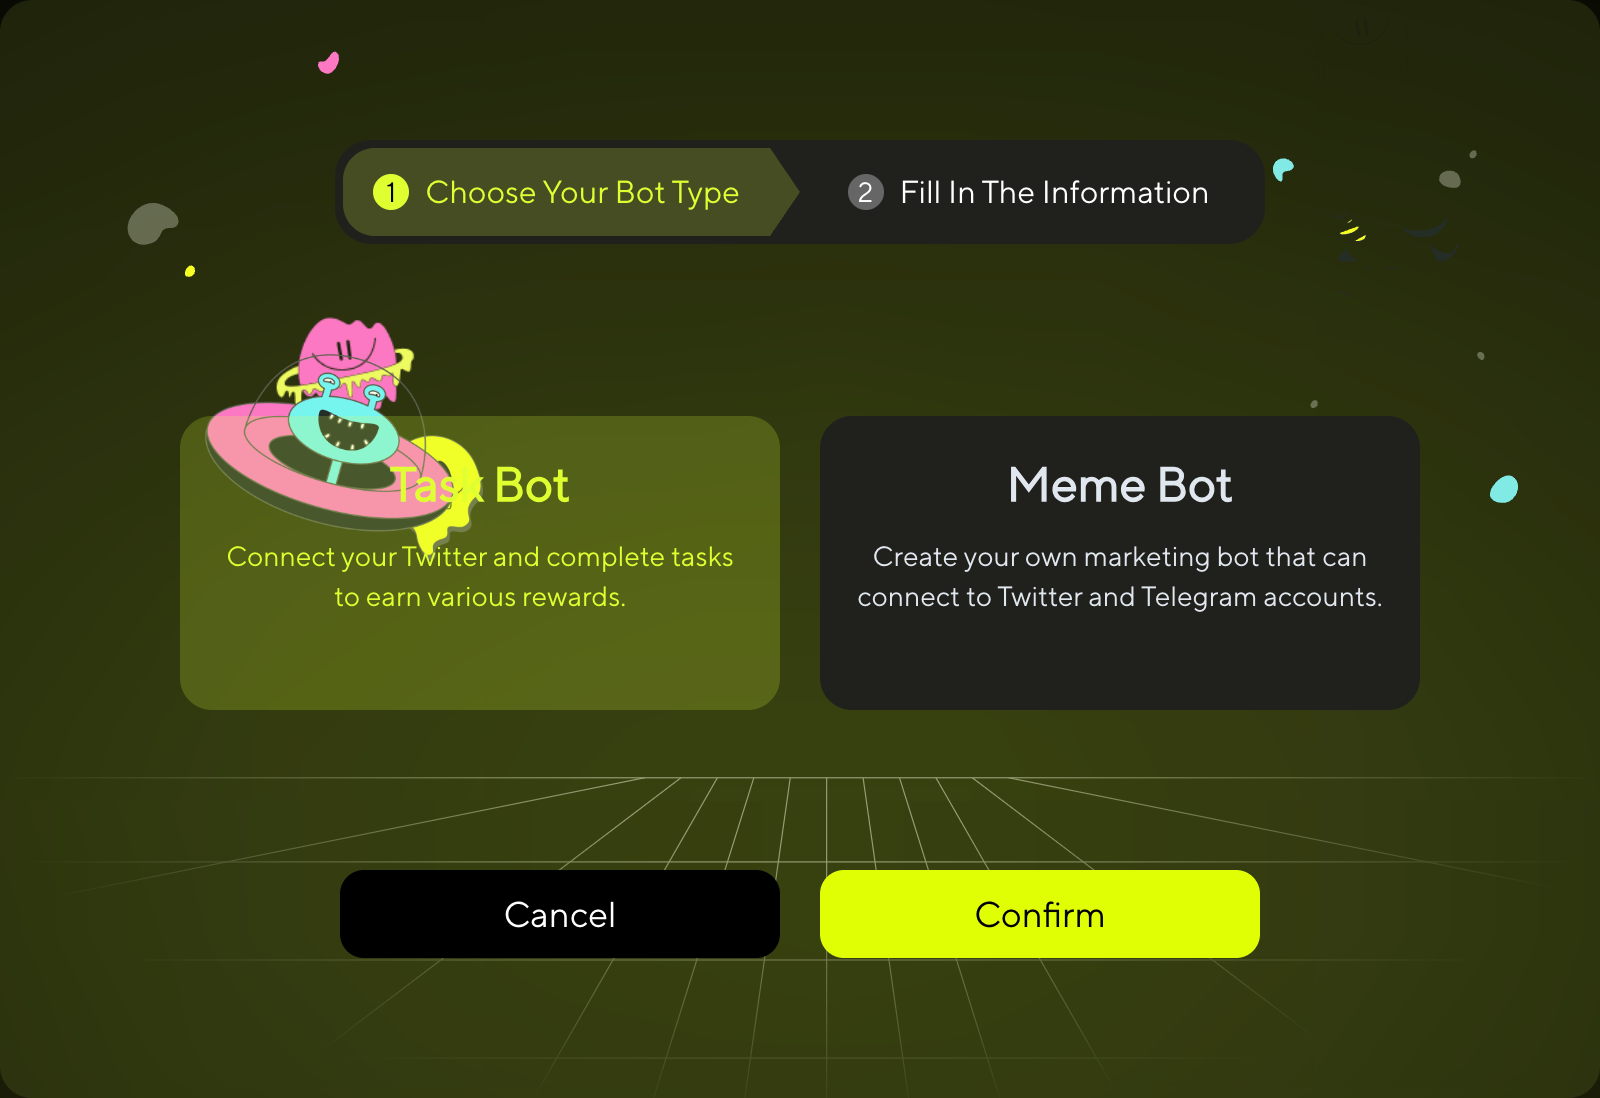
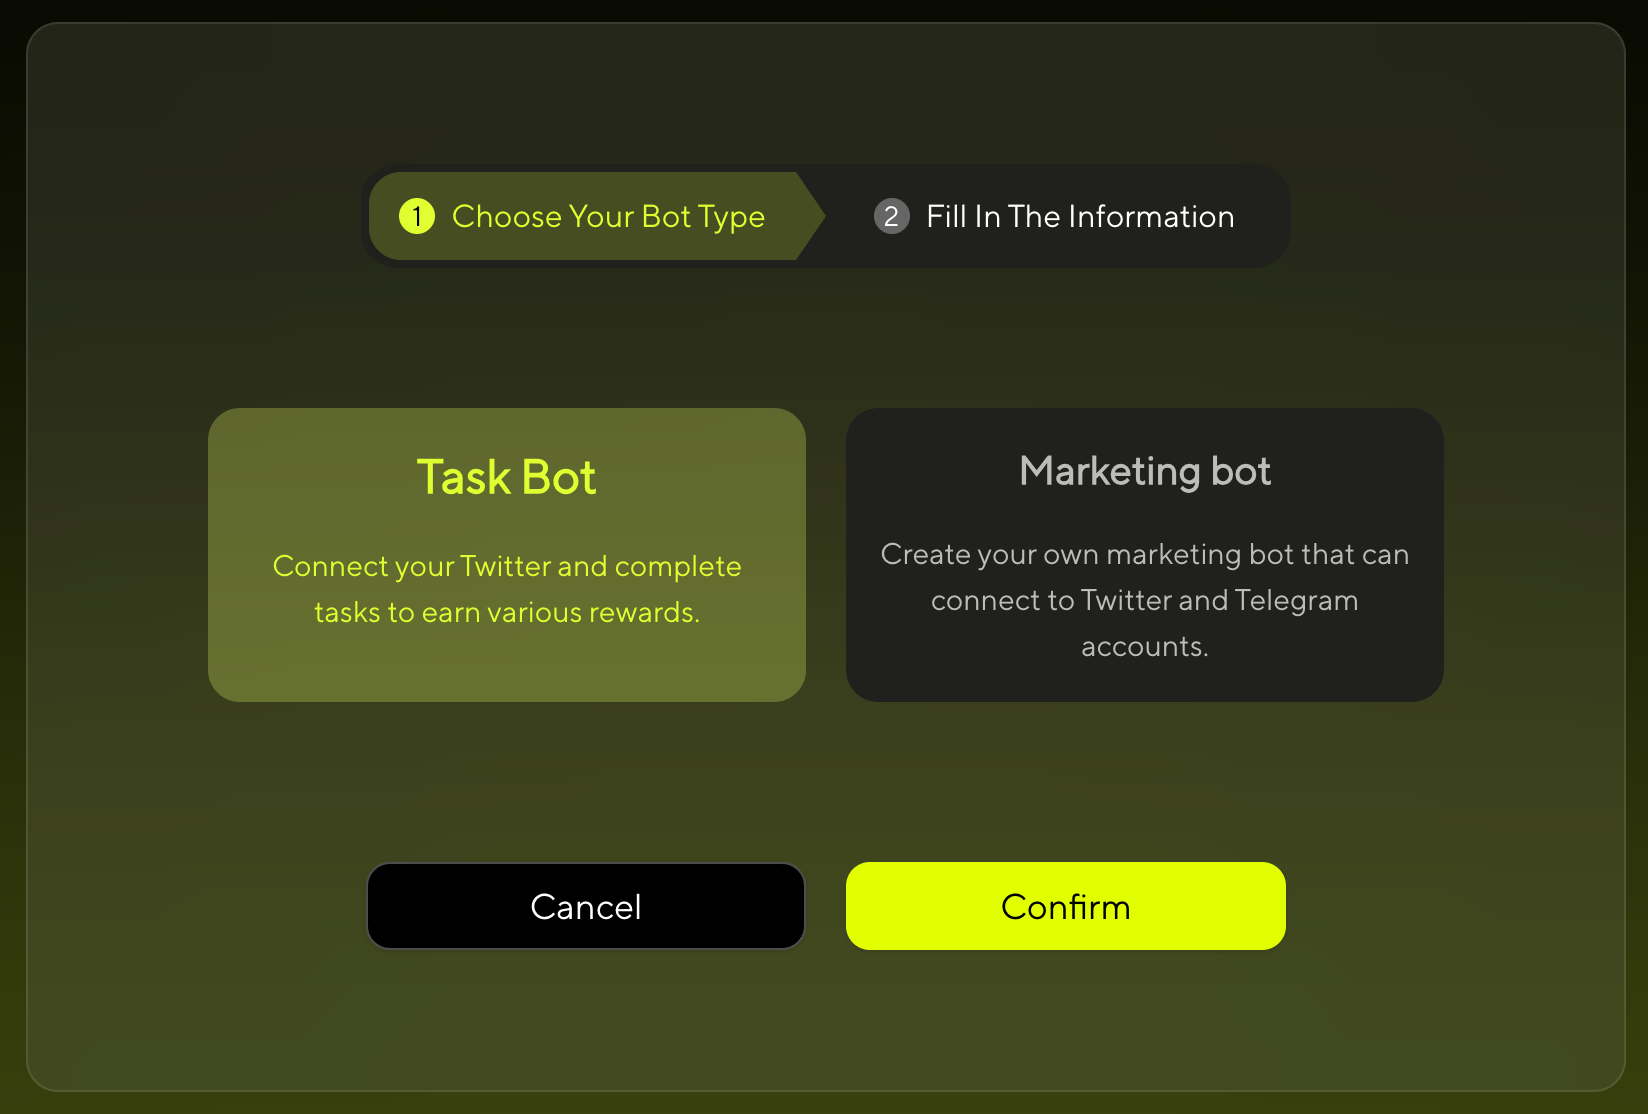
Update Create Bot chapter to reflect changes from Meme Bot to Marketing Bot
- Renamed references from "Meme Bot" to "Marketing Bot" throughout the chapter for clarity.
- Updated related descriptions and instructions to align with the new bot type.
- Added a new image to enhance the visual representation of the Marketing Bot creation process.

diff --git a/src/chapters/create-bot.md b/src/chapters/create-bot.md
@@ -15,17 +15,17 @@ After clicking Create, you need to choose the type of bot you want to create:
 </div>
 
 - **Task Bot** - Focused on performing specific tasks and functions
-- **Meme Bot** - Designed for meme token creation and social interactions
+- **Marketing Bot** - Designed for meme token creation and social interactions
 
 > 👉 **Note:** 
 > - **Task Bot**: No wallet connection required
-> - **Meme Bot**: Wallet connection required for token creation and transactions
+> - **Marketing Bot**: Wallet connection required for token creation and transactions
 
 ---
 
 ## Step 3: Choose Creation Method
 
-### For Meme Bot
+### For Marketing Bot
 
 Choose your preferred creation method:
 
@@ -40,9 +40,9 @@ Choose your preferred creation method:
 
 ## Step 4: Create Your Bot
 
-### For Meme Bot
+### For Marketing Bot
 
-If you selected **Meme Bot** in Step 1, follow the standard creation process:
+If you selected **Marketing Bot** in Step 1, follow the standard creation process:
 
 #### Option A: Create with Form
 
@@ -126,12 +126,12 @@ Task Bot creation is complete once you fill out the form. You'll see the success
 
 Your Task Bot is now ready! AI training has automatically started in the background. Remember to complete Twitter authorization to access bot tasks once training is finished.
 
-### For Meme Bot
+### For Marketing Bot
 
-After filling out the form, Meme Bot requires an additional launch step:
+After filling out the form, Marketing Bot requires an additional launch step:
 
 <div class="img-center">
-  <img src="../assets/create-bot/14.png" alt="Meme Bot Creation Complete" style="width: 30%;">
+  <img src="../assets/create-bot/14.png" alt="Marketing Bot Creation Complete" style="width: 30%;">
 </div>
 
 In the pop-up window, click **"Launch"**. Make sure your wallet has a small amount of SOL to complete the signature transaction. Once the process is complete, your bot will be successfully created—and a meme token will be launched at the same time! 🚀
@@ -158,9 +158,9 @@ For Task Bot, you can modify:
 - **Bot Name** - Change your bot's display name
 - **Bot Icon** - Upload a new image or generate one with AI
 
-### For Meme Bot
+### For Marketing Bot
 
-Meme Bot supports full editing capabilities. Configure advanced settings:
+Marketing Bot supports full editing capabilities. Configure advanced settings:
 
 <div class="img-center img-mobile">
   <img src="../assets/create-bot/7.png" alt="Create with AI">
@@ -192,7 +192,7 @@ Configure your bot's Twitter/X integration:
 - **Toggle Switch**: Enable Twitter bot functionality
 - **Cost**: Each post, comment, or like will cost 10 points
 - **Daily Activity Limits**:
-  - **Number of Twitter Per Day**: Set daily tweet limit (0-∞)
+  - **Number of Tweets Per Day**: Set daily tweet limit (0-∞)
   - **Number of Reply Per Day**: Set daily reply limit (0-∞)  
   - **Number of Likes Per Day**: Set daily like limit (0-∞)
 
@@ -200,10 +200,10 @@ Configure your bot's Twitter/X integration:
 
 > 📋 **Training Process Difference:**
 > 
-> - **Meme Bot**: Manual training - You need to manually enable AI training using your Twitter account data
+> - **Marketing Bot**: Manual training - You need to manually enable AI training using your Twitter account data
 > - **Task Bot**: Automatic training - AI training starts automatically when you create the bot (no manual setup required)
 
-**For Meme Bot Only:**
+**For Marketing Bot Only:**
 
 Enable AI training using your Twitter account data:
 
@@ -213,7 +213,7 @@ Enable AI training using your Twitter account data:
   <img src="../assets/create-bot/8.png" alt="AI Training Confirmation">
 </div>
 
-**For Meme Bot:** After configuring all settings, click **"Confirm"** to start AI training for your bot.
+**For Marketing Bot:** After configuring all settings, click **"Confirm"** to start AI training for your bot.
 
 <div>
   <img src="../assets/create-bot/9.png" alt="AI Training in Progress">
@@ -225,7 +225,7 @@ Enable AI training using your Twitter account data:
 
 This status message appears at the top of your Bot Details page, showing that AI training is currently in progress. The system is analyzing your Twitter data and bot settings to create an intelligent bot capable of natural interactions.
 
-**For both Meme Bot and Task Bot:** Once training is complete, you'll see:
+**For both Marketing Bot and Task Bot:** Once training is complete, you'll see:
 
 <div>
   <img src="../assets/create-bot/10.png" alt="AI Training Complete">
